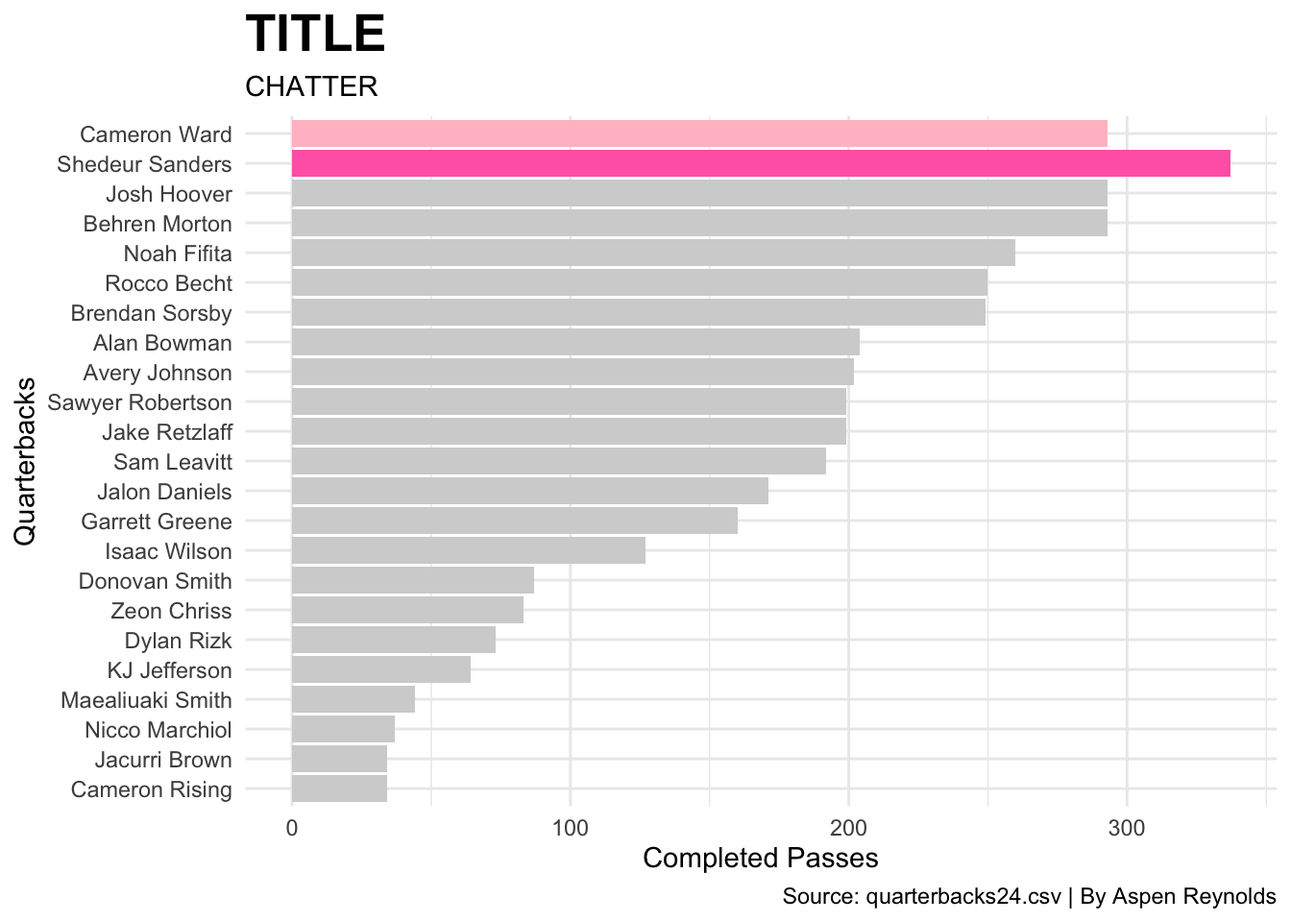
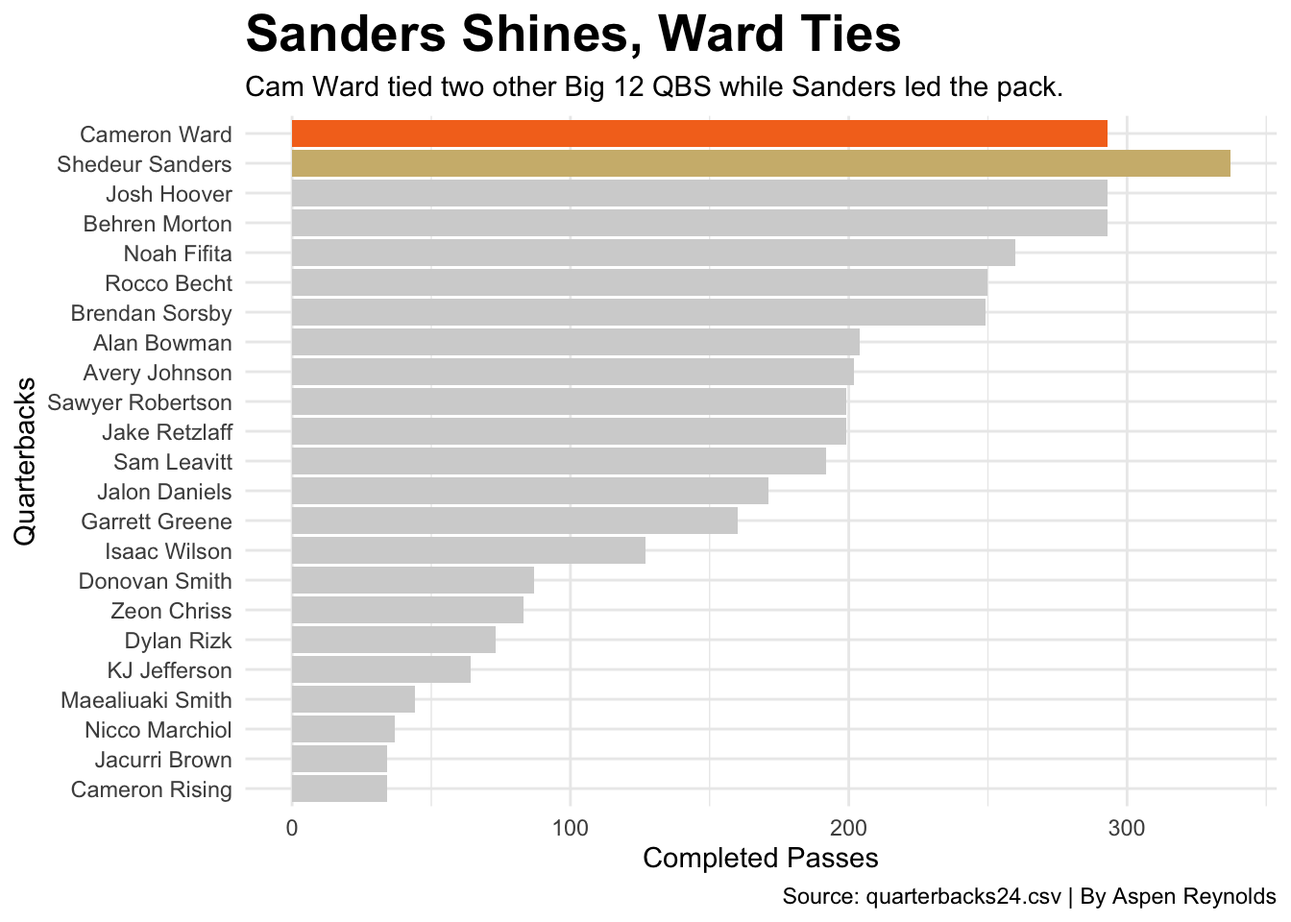
update

Changed region(s): [[0.1875, 0.0, 0.9688, 0.2188]]

diff --git a/posts/post2/post2.html b/posts/post2/post2.html
@@ -186,7 +186,7 @@ pre > code.sourceCode > span > a:first-child::before { text-decoration: underlin
 
 
 
-<p>Every draft season is full of surprises. From surprise picks to talented players being undrafted, you never can predict what will happen or what will go viral. This years hot topic was Shadeur Sanders. While a talented player in his own regard, he is frequently referred to as the son of NFL Hall of Famer Deion Sanders. The younger Sanders has been making headlines with his behavior in press conferences and meetings, as well as not training under anyone apart from his father. With high hopes to be a first round pick, they were quickly crushed. Sanders ultimately was the 144th pick in the fifth round, chosen by the Cleveland Browns. The overall top pick was Cameron Ward, a graduate from the University of Miami, who will be playing with the Tennessee Titans. This created more headlines. With both being quarterbacks, we are able to compare their passing statistics and see how Ward claimed the number one spot and how Sanders compared to him and the rest of the Big 12.</p>
+<p>Every draft season is full of surprises. From surprise picks to talented players being undrafted, you never can predict what will happen or what will go viral. This years hot topic was Shedeur Sanders. While a talented player in his own regard, he is frequently referred to as the son of NFL Hall of Famer Deion Sanders. The younger Sanders has been making headlines with his behavior in press conferences and meetings, as well as not training under anyone apart from his father. With high hopes to be a first round pick, they were quickly crushed. Sanders ultimately was the 144th pick in the fifth round, chosen by the Cleveland Browns. The overall top pick was Cameron Ward, a graduate from the University of Miami, who will be playing with the Tennessee Titans. This created more headlines. With both being quarterbacks, we are able to compare their passing statistics and see how Ward claimed the number one spot and how Sanders compared to him and the rest of the Big 12.</p>
 <div class="cell">
 <details class="code-fold">
 <summary>Code</summary>
@@ -194,8 +194,7 @@ pre > code.sourceCode > span > a:first-child::before { text-decoration: underlin
 <span id="cb1-2"><a href="#cb1-2" aria-hidden="true" tabindex="-1"></a><span class="fu">library</span>(ggrepel)</span>
 <span id="cb1-3"><a href="#cb1-3" aria-hidden="true" tabindex="-1"></a><span class="fu">library</span>(ggalt)</span>
 <span id="cb1-4"><a href="#cb1-4" aria-hidden="true" tabindex="-1"></a><span class="fu">library</span>(ggtext)</span>
-<span id="cb1-5"><a href="#cb1-5" aria-hidden="true" tabindex="-1"></a><span class="fu">library</span>(waffle)</span>
-<span id="cb1-6"><a href="#cb1-6" aria-hidden="true" tabindex="-1"></a><span class="fu">library</span>(patchwork)</span></code><button title="Copy to Clipboard" class="code-copy-button"><i class="bi"></i></button></pre></div>
+<span id="cb1-5"><a href="#cb1-5" aria-hidden="true" tabindex="-1"></a><span class="fu">library</span>(patchwork)</span></code><button title="Copy to Clipboard" class="code-copy-button"><i class="bi"></i></button></pre></div>
 </details>
 </div>
 <div class="cell">
@@ -231,19 +230,20 @@ pre > code.sourceCode > span > a:first-child::before { text-decoration: underlin
 <summary>Code</summary>
 <div class="sourceCode cell-code" id="cb6"><pre class="sourceCode r code-with-copy"><code class="sourceCode r"><span id="cb6-1"><a href="#cb6-1" aria-hidden="true" tabindex="-1"></a><span class="fu">ggplot</span>() <span class="sc">+</span> </span>
 <span id="cb6-2"><a href="#cb6-2" aria-hidden="true" tabindex="-1"></a>  <span class="fu">geom_bar</span>(<span class="at">data=</span>big12, <span class="fu">aes</span>(<span class="at">x=</span><span class="fu">reorder</span>(player, passing_completions), <span class="at">weight=</span>passing_completions), <span class="at">fill=</span><span class="st">"lightgrey"</span>) <span class="sc">+</span></span>
-<span id="cb6-3"><a href="#cb6-3" aria-hidden="true" tabindex="-1"></a>  <span class="fu">geom_bar</span>(<span class="at">data=</span>cw, <span class="fu">aes</span>(<span class="at">x=</span><span class="fu">reorder</span>(player, passing_completions), <span class="at">weight=</span>passing_completions), <span class="at">fill=</span><span class="st">"pink"</span>) <span class="sc">+</span> <span class="fu">geom_bar</span>(<span class="at">data=</span>ss, <span class="fu">aes</span>(<span class="at">x=</span><span class="fu">reorder</span>(player, passing_completions), <span class="at">weight=</span>passing_completions), <span class="at">fill=</span><span class="st">"hotpink"</span>) <span class="sc">+</span> </span>
-<span id="cb6-4"><a href="#cb6-4" aria-hidden="true" tabindex="-1"></a>  <span class="fu">coord_flip</span>() <span class="sc">+</span></span>
-<span id="cb6-5"><a href="#cb6-5" aria-hidden="true" tabindex="-1"></a>  <span class="fu">labs</span>(</span>
-<span id="cb6-6"><a href="#cb6-6" aria-hidden="true" tabindex="-1"></a>    <span class="at">x=</span><span class="st">"Quarterbacks"</span>, </span>
-<span id="cb6-7"><a href="#cb6-7" aria-hidden="true" tabindex="-1"></a>    <span class="at">y=</span><span class="st">"Completed Passes"</span>, </span>
-<span id="cb6-8"><a href="#cb6-8" aria-hidden="true" tabindex="-1"></a>    <span class="at">title=</span><span class="st">"TITLE"</span>, </span>
-<span id="cb6-9"><a href="#cb6-9" aria-hidden="true" tabindex="-1"></a>    <span class="at">subtitle=</span><span class="st">"CHATTER"</span>, </span>
-<span id="cb6-10"><a href="#cb6-10" aria-hidden="true" tabindex="-1"></a>    <span class="at">caption=</span><span class="st">"Source: quarterbacks24.csv | By Aspen Reynolds"</span></span>
-<span id="cb6-11"><a href="#cb6-11" aria-hidden="true" tabindex="-1"></a>    ) <span class="sc">+</span></span>
-<span id="cb6-12"><a href="#cb6-12" aria-hidden="true" tabindex="-1"></a>  <span class="fu">theme_minimal</span>() <span class="sc">+</span> </span>
-<span id="cb6-13"><a href="#cb6-13" aria-hidden="true" tabindex="-1"></a>  <span class="fu">theme</span>(</span>
-<span id="cb6-14"><a href="#cb6-14" aria-hidden="true" tabindex="-1"></a>    <span class="at">plot.title =</span> <span class="fu">element_text</span>(<span class="at">size =</span> <span class="dv">20</span>, <span class="at">face =</span> <span class="st">"bold"</span>)</span>
-<span id="cb6-15"><a href="#cb6-15" aria-hidden="true" tabindex="-1"></a>    )</span></code><button title="Copy to Clipboard" class="code-copy-button"><i class="bi"></i></button></pre></div>
+<span id="cb6-3"><a href="#cb6-3" aria-hidden="true" tabindex="-1"></a>  <span class="fu">geom_bar</span>(<span class="at">data=</span>cw, <span class="fu">aes</span>(<span class="at">x=</span><span class="fu">reorder</span>(player, passing_completions), <span class="at">weight=</span>passing_completions), <span class="at">fill=</span><span class="st">"#F47321"</span>) <span class="sc">+</span> </span>
+<span id="cb6-4"><a href="#cb6-4" aria-hidden="true" tabindex="-1"></a>  <span class="fu">geom_bar</span>(<span class="at">data=</span>ss, <span class="fu">aes</span>(<span class="at">x=</span><span class="fu">reorder</span>(player, passing_completions), <span class="at">weight=</span>passing_completions), <span class="at">fill=</span><span class="st">"#CFB87C"</span>) <span class="sc">+</span> </span>
+<span id="cb6-5"><a href="#cb6-5" aria-hidden="true" tabindex="-1"></a>  <span class="fu">coord_flip</span>() <span class="sc">+</span></span>
+<span id="cb6-6"><a href="#cb6-6" aria-hidden="true" tabindex="-1"></a>  <span class="fu">labs</span>(</span>
+<span id="cb6-7"><a href="#cb6-7" aria-hidden="true" tabindex="-1"></a>    <span class="at">x=</span><span class="st">"Quarterbacks"</span>, </span>
+<span id="cb6-8"><a href="#cb6-8" aria-hidden="true" tabindex="-1"></a>    <span class="at">y=</span><span class="st">"Completed Passes"</span>, </span>
+<span id="cb6-9"><a href="#cb6-9" aria-hidden="true" tabindex="-1"></a>    <span class="at">title=</span><span class="st">"Sanders Shines, Ward Ties"</span>, </span>
+<span id="cb6-10"><a href="#cb6-10" aria-hidden="true" tabindex="-1"></a>    <span class="at">subtitle=</span><span class="st">"Cam Ward tied two other Big 12 QBS while Sanders led the pack."</span>, </span>
+<span id="cb6-11"><a href="#cb6-11" aria-hidden="true" tabindex="-1"></a>    <span class="at">caption=</span><span class="st">"Source: quarterbacks24.csv | By Aspen Reynolds"</span></span>
+<span id="cb6-12"><a href="#cb6-12" aria-hidden="true" tabindex="-1"></a>    ) <span class="sc">+</span></span>
+<span id="cb6-13"><a href="#cb6-13" aria-hidden="true" tabindex="-1"></a>  <span class="fu">theme_minimal</span>() <span class="sc">+</span> </span>
+<span id="cb6-14"><a href="#cb6-14" aria-hidden="true" tabindex="-1"></a>  <span class="fu">theme</span>(</span>
+<span id="cb6-15"><a href="#cb6-15" aria-hidden="true" tabindex="-1"></a>    <span class="at">plot.title =</span> <span class="fu">element_text</span>(<span class="at">size =</span> <span class="dv">20</span>, <span class="at">face =</span> <span class="st">"bold"</span>)</span>
+<span id="cb6-16"><a href="#cb6-16" aria-hidden="true" tabindex="-1"></a>    )</span></code><button title="Copy to Clipboard" class="code-copy-button"><i class="bi"></i></button></pre></div>
 </details>
 <div class="cell-output-display">
 <div>
@@ -253,26 +253,27 @@ pre > code.sourceCode > span > a:first-child::before { text-decoration: underlin
 </div>
 </div>
 </div>
-<p>Shadeur Sanders had more pass completions than both Ward and the Big 12. Sanders had 337, while Ward had 293. TCU’s Josh Hoover and Texas Tech’s Behren Morton also tied with Ward with 293 completed passes.</p>
+<p>Shedeur Sanders had more pass completions than both Ward and the Big 12. Sanders had 337, while Ward had 293. TCU’s Josh Hoover and Texas Tech’s Behren Morton also tied with Ward with 293 completed passes.</p>
 <p>This is reflected in overall passing as well. Sanders currently holds the record for highest career passing percentage in college football (71.4%). His 2024 season percentage was 74.2, with Ward once again being his closest competitor with 67.4%.</p>
 <div class="cell">
 <details class="code-fold">
 <summary>Code</summary>
 <div class="sourceCode cell-code" id="cb7"><pre class="sourceCode r code-with-copy"><code class="sourceCode r"><span id="cb7-1"><a href="#cb7-1" aria-hidden="true" tabindex="-1"></a><span class="fu">ggplot</span>() <span class="sc">+</span> </span>
 <span id="cb7-2"><a href="#cb7-2" aria-hidden="true" tabindex="-1"></a>  <span class="fu">geom_bar</span>(<span class="at">data=</span>big12, <span class="fu">aes</span>(<span class="at">x=</span><span class="fu">reorder</span>(player, passing_pct), <span class="at">weight=</span>passing_pct), <span class="at">fill=</span><span class="st">"lightgrey"</span>) <span class="sc">+</span></span>
-<span id="cb7-3"><a href="#cb7-3" aria-hidden="true" tabindex="-1"></a>  <span class="fu">geom_bar</span>(<span class="at">data=</span>cw, <span class="fu">aes</span>(<span class="at">x=</span><span class="fu">reorder</span>(player, passing_pct), <span class="at">weight=</span>passing_pct), <span class="at">fill=</span><span class="st">"pink"</span>) <span class="sc">+</span> <span class="fu">geom_bar</span>(<span class="at">data=</span>ss, <span class="fu">aes</span>(<span class="at">x=</span><span class="fu">reorder</span>(player, passing_pct), <span class="at">weight=</span>passing_pct), <span class="at">fill=</span><span class="st">"hotpink"</span>) <span class="sc">+</span> </span>
-<span id="cb7-4"><a href="#cb7-4" aria-hidden="true" tabindex="-1"></a>  <span class="fu">coord_flip</span>() <span class="sc">+</span></span>
-<span id="cb7-5"><a href="#cb7-5" aria-hidden="true" tabindex="-1"></a>  <span class="fu">labs</span>(</span>
-<span id="cb7-6"><a href="#cb7-6" aria-hidden="true" tabindex="-1"></a>    <span class="at">x=</span><span class="st">"Quarterbacks"</span>, </span>
-<span id="cb7-7"><a href="#cb7-7" aria-hidden="true" tabindex="-1"></a>    <span class="at">y=</span><span class="st">"Passing Completion Percentage"</span>, </span>
-<span id="cb7-8"><a href="#cb7-8" aria-hidden="true" tabindex="-1"></a>    <span class="at">title=</span><span class="st">"TITLE"</span>, </span>
-<span id="cb7-9"><a href="#cb7-9" aria-hidden="true" tabindex="-1"></a>    <span class="at">subtitle=</span><span class="st">"CHATTER"</span>, </span>
-<span id="cb7-10"><a href="#cb7-10" aria-hidden="true" tabindex="-1"></a>    <span class="at">caption=</span><span class="st">"Source: quarterbacks24.csv | By Aspen Reynolds"</span></span>
-<span id="cb7-11"><a href="#cb7-11" aria-hidden="true" tabindex="-1"></a>    ) <span class="sc">+</span></span>
-<span id="cb7-12"><a href="#cb7-12" aria-hidden="true" tabindex="-1"></a>  <span class="fu">theme_minimal</span>() <span class="sc">+</span> </span>
-<span id="cb7-13"><a href="#cb7-13" aria-hidden="true" tabindex="-1"></a>  <span class="fu">theme</span>(</span>
-<span id="cb7-14"><a href="#cb7-14" aria-hidden="true" tabindex="-1"></a>    <span class="at">plot.title =</span> <span class="fu">element_text</span>(<span class="at">size =</span> <span class="dv">20</span>, <span class="at">face =</span> <span class="st">"bold"</span>)</span>
-<span id="cb7-15"><a href="#cb7-15" aria-hidden="true" tabindex="-1"></a>    )</span></code><button title="Copy to Clipboard" class="code-copy-button"><i class="bi"></i></button></pre></div>
+<span id="cb7-3"><a href="#cb7-3" aria-hidden="true" tabindex="-1"></a>  <span class="fu">geom_bar</span>(<span class="at">data=</span>cw, <span class="fu">aes</span>(<span class="at">x=</span><span class="fu">reorder</span>(player, passing_pct), <span class="at">weight=</span>passing_pct), <span class="at">fill=</span><span class="st">"#F47321"</span>) <span class="sc">+</span> </span>
+<span id="cb7-4"><a href="#cb7-4" aria-hidden="true" tabindex="-1"></a>  <span class="fu">geom_bar</span>(<span class="at">data=</span>ss, <span class="fu">aes</span>(<span class="at">x=</span><span class="fu">reorder</span>(player, passing_pct), <span class="at">weight=</span>passing_pct), <span class="at">fill=</span><span class="st">"#CFB87C"</span>) <span class="sc">+</span> </span>
+<span id="cb7-5"><a href="#cb7-5" aria-hidden="true" tabindex="-1"></a>  <span class="fu">coord_flip</span>() <span class="sc">+</span></span>
+<span id="cb7-6"><a href="#cb7-6" aria-hidden="true" tabindex="-1"></a>  <span class="fu">labs</span>(</span>
+<span id="cb7-7"><a href="#cb7-7" aria-hidden="true" tabindex="-1"></a>    <span class="at">x=</span><span class="st">"Quarterbacks"</span>, </span>
+<span id="cb7-8"><a href="#cb7-8" aria-hidden="true" tabindex="-1"></a>    <span class="at">y=</span><span class="st">"Passing Completion Percentage"</span>, </span>
+<span id="cb7-9"><a href="#cb7-9" aria-hidden="true" tabindex="-1"></a>    <span class="at">title=</span><span class="st">"Sanders smashes records"</span>, </span>
+<span id="cb7-10"><a href="#cb7-10" aria-hidden="true" tabindex="-1"></a>    <span class="at">subtitle=</span><span class="st">"With the highest passing percentage in both the 2024 season and his college career."</span>, </span>
+<span id="cb7-11"><a href="#cb7-11" aria-hidden="true" tabindex="-1"></a>    <span class="at">caption=</span><span class="st">"Source: quarterbacks24.csv | By Aspen Reynolds"</span></span>
+<span id="cb7-12"><a href="#cb7-12" aria-hidden="true" tabindex="-1"></a>    ) <span class="sc">+</span></span>
+<span id="cb7-13"><a href="#cb7-13" aria-hidden="true" tabindex="-1"></a>  <span class="fu">theme_minimal</span>() <span class="sc">+</span> </span>
+<span id="cb7-14"><a href="#cb7-14" aria-hidden="true" tabindex="-1"></a>  <span class="fu">theme</span>(</span>
+<span id="cb7-15"><a href="#cb7-15" aria-hidden="true" tabindex="-1"></a>    <span class="at">plot.title =</span> <span class="fu">element_text</span>(<span class="at">size =</span> <span class="dv">20</span>, <span class="at">face =</span> <span class="st">"bold"</span>)</span>
+<span id="cb7-16"><a href="#cb7-16" aria-hidden="true" tabindex="-1"></a>    )</span></code><button title="Copy to Clipboard" class="code-copy-button"><i class="bi"></i></button></pre></div>
 </details>
 <div class="cell-output-display">
 <div>
@@ -288,18 +289,18 @@ pre > code.sourceCode > span > a:first-child::before { text-decoration: underlin
 <summary>Code</summary>
 <div class="sourceCode cell-code" id="cb8"><pre class="sourceCode r code-with-copy"><code class="sourceCode r"><span id="cb8-1"><a href="#cb8-1" aria-hidden="true" tabindex="-1"></a><span class="fu">ggplot</span>() <span class="sc">+</span> </span>
 <span id="cb8-2"><a href="#cb8-2" aria-hidden="true" tabindex="-1"></a>  <span class="fu">geom_point</span>(<span class="at">data=</span>big12, <span class="fu">aes</span>(<span class="at">x=</span>passing_ypa, <span class="at">y=</span>player), <span class="at">fill=</span><span class="st">"lightgrey"</span>) <span class="sc">+</span></span>
-<span id="cb8-3"><a href="#cb8-3" aria-hidden="true" tabindex="-1"></a>  <span class="fu">geom_point</span>(<span class="at">data=</span>cw, <span class="fu">aes</span>(<span class="at">x=</span>passing_ypa, <span class="at">y=</span>player), <span class="at">fill=</span><span class="st">"pink"</span>) <span class="sc">+</span></span>
-<span id="cb8-4"><a href="#cb8-4" aria-hidden="true" tabindex="-1"></a>  <span class="fu">geom_point</span>(<span class="at">data=</span>ss, <span class="fu">aes</span>(<span class="at">x=</span>passing_ypa, <span class="at">y=</span>player), <span class="at">fill=</span><span class="st">"hotpink"</span>) <span class="sc">+</span></span>
+<span id="cb8-3"><a href="#cb8-3" aria-hidden="true" tabindex="-1"></a>  <span class="fu">geom_point</span>(<span class="at">data=</span>cw, <span class="fu">aes</span>(<span class="at">x=</span>passing_ypa, <span class="at">y=</span>player), <span class="at">fill=</span><span class="st">"#F47321"</span>) <span class="sc">+</span></span>
+<span id="cb8-4"><a href="#cb8-4" aria-hidden="true" tabindex="-1"></a>  <span class="fu">geom_point</span>(<span class="at">data=</span>ss, <span class="fu">aes</span>(<span class="at">x=</span>passing_ypa, <span class="at">y=</span>player), <span class="at">fill=</span><span class="st">"#CFB87C"</span>) <span class="sc">+</span></span>
 <span id="cb8-5"><a href="#cb8-5" aria-hidden="true" tabindex="-1"></a>  <span class="fu">labs</span>(</span>
 <span id="cb8-6"><a href="#cb8-6" aria-hidden="true" tabindex="-1"></a>    <span class="at">x=</span><span class="st">"Average yards gained per play"</span>, </span>
 <span id="cb8-7"><a href="#cb8-7" aria-hidden="true" tabindex="-1"></a>    <span class="at">y=</span><span class="st">"Quarterbacks"</span>, </span>
-<span id="cb8-8"><a href="#cb8-8" aria-hidden="true" tabindex="-1"></a>    <span class="at">title=</span><span class="st">"TITLE"</span>, </span>
-<span id="cb8-9"><a href="#cb8-9" aria-hidden="true" tabindex="-1"></a>    <span class="at">subtitle=</span><span class="st">"CHATTER"</span>, </span>
+<span id="cb8-8"><a href="#cb8-8" aria-hidden="true" tabindex="-1"></a>    <span class="at">title=</span><span class="st">"Ward wins against Sanders (and everyone else)"</span>, </span>
+<span id="cb8-9"><a href="#cb8-9" aria-hidden="true" tabindex="-1"></a>    <span class="at">subtitle=</span><span class="st">"Ward has a significantly higher average when it comes to average yards gained."</span>, </span>
 <span id="cb8-10"><a href="#cb8-10" aria-hidden="true" tabindex="-1"></a>    <span class="at">caption=</span><span class="st">"Source: quarterbacks24.csv | By Aspen Reynolds"</span></span>
 <span id="cb8-11"><a href="#cb8-11" aria-hidden="true" tabindex="-1"></a>    ) <span class="sc">+</span></span>
 <span id="cb8-12"><a href="#cb8-12" aria-hidden="true" tabindex="-1"></a>  <span class="fu">theme_minimal</span>() <span class="sc">+</span> </span>
 <span id="cb8-13"><a href="#cb8-13" aria-hidden="true" tabindex="-1"></a>  <span class="fu">theme</span>(</span>
-<span id="cb8-14"><a href="#cb8-14" aria-hidden="true" tabindex="-1"></a>    <span class="at">plot.title =</span> <span class="fu">element_text</span>(<span class="at">size =</span> <span class="dv">20</span>, <span class="at">face =</span> <span class="st">"bold"</span>)</span>
+<span id="cb8-14"><a href="#cb8-14" aria-hidden="true" tabindex="-1"></a>    <span class="at">plot.title =</span> <span class="fu">element_text</span>(<span class="at">size =</span> <span class="dv">18</span>, <span class="at">face =</span> <span class="st">"bold"</span>)</span>
 <span id="cb8-15"><a href="#cb8-15" aria-hidden="true" tabindex="-1"></a>    )</span></code><button title="Copy to Clipboard" class="code-copy-button"><i class="bi"></i></button></pre></div>
 </details>
 <div class="cell-output-display">
@@ -310,7 +311,8 @@ pre > code.sourceCode > span > a:first-child::before { text-decoration: underlin
 </div>
 </div>
 </div>
-<p>Here we see how Ward was an outlier among the Big 12 and compared to</p>
+<p>Here we see how Ward was an outlier among the Big 12 and compared to Sanders. Sanders gained 8.6 yards per play on average, while Ward averaged 9.5. Ward’s closest comparison was KJ Jefferson, quarterback at the University of Central Florida (UCF), who averaged 9.4.</p>
+<p>Finally, let’s look at how they compared in their respective leauges when it comes to throwing interceptions vs touchdowns.</p>
 <div class="cell">
 <details class="code-fold">
 <summary>Code</summary>
@@ -325,7 +327,7 @@ pre > code.sourceCode > span > a:first-child::before { text-decoration: underlin
 <div class="cell">
 <details class="code-fold">
 <summary>Code</summary>
-<div class="sourceCode cell-code" id="cb10"><pre class="sourceCode r code-with-copy"><code class="sourceCode r"><span id="cb10-1"><a href="#cb10-1" aria-hidden="true" tabindex="-1"></a><span class="fu">ggplot</span>() <span class="sc">+</span> </span>
+<div class="sourceCode cell-code" id="cb10"><pre class="sourceCode r code-with-copy"><code class="sourceCode r"><span id="cb10-1"><a href="#cb10-1" aria-hidden="true" tabindex="-1"></a>db1 <span class="ot">&lt;-</span> <span class="fu">ggplot</span>() <span class="sc">+</span> </span>
 <span id="cb10-2"><a href="#cb10-2" aria-hidden="true" tabindex="-1"></a>  <span class="fu">geom_dumbbell</span>(</span>
 <span id="cb10-3"><a href="#cb10-3" aria-hidden="true" tabindex="-1"></a>    <span class="at">data=</span>ssturnovers,</span>
 <span id="cb10-4"><a href="#cb10-4" aria-hidden="true" tabindex="-1"></a>    <span class="fu">aes</span>(<span class="at">y=</span>player, <span class="at">x=</span>Takeaways, <span class="at">xend=</span>Giveaways),</span>
@@ -334,16 +336,57 @@ pre > code.sourceCode > span > a:first-child::before { text-decoration: underlin
 <span id="cb10-7"><a href="#cb10-7" aria-hidden="true" tabindex="-1"></a>    <span class="at">colour_x =</span> <span class="st">"lightgreen"</span>,</span>
 <span id="cb10-8"><a href="#cb10-8" aria-hidden="true" tabindex="-1"></a>    <span class="at">colour_xend =</span> <span class="st">"lightpink"</span>) <span class="sc">+</span></span>
 <span id="cb10-9"><a href="#cb10-9" aria-hidden="true" tabindex="-1"></a>  <span class="fu">labs</span>(</span>
-<span id="cb10-10"><a href="#cb10-10" aria-hidden="true" tabindex="-1"></a>    <span class="at">x=</span><span class="st">"Takeaways"</span>, </span>
+<span id="cb10-10"><a href="#cb10-10" aria-hidden="true" tabindex="-1"></a>    <span class="at">x=</span><span class="st">"Interceptions vs. Touchdowns"</span>, </span>
 <span id="cb10-11"><a href="#cb10-11" aria-hidden="true" tabindex="-1"></a>    <span class="at">y=</span><span class="st">"Quarterbacks"</span>, </span>
-<span id="cb10-12"><a href="#cb10-12" aria-hidden="true" tabindex="-1"></a>    <span class="at">title=</span><span class="st">"TITLE"</span>, </span>
-<span id="cb10-13"><a href="#cb10-13" aria-hidden="true" tabindex="-1"></a>    <span class="at">subtitle=</span><span class="st">"CHATTER"</span>, </span>
+<span id="cb10-12"><a href="#cb10-12" aria-hidden="true" tabindex="-1"></a>    <span class="at">title=</span><span class="st">"Sanders dominated the Big 12..."</span>, </span>
+<span id="cb10-13"><a href="#cb10-13" aria-hidden="true" tabindex="-1"></a>    <span class="at">subtitle=</span><span class="st">"If green is on the right, the quarterbacks threw more touchdowns than interceptions. If pink is on the right, that's bad."</span>, </span>
 <span id="cb10-14"><a href="#cb10-14" aria-hidden="true" tabindex="-1"></a>    <span class="at">caption=</span><span class="st">"Source: quarterbacks24.csv | By Aspen Reynolds"</span></span>
 <span id="cb10-15"><a href="#cb10-15" aria-hidden="true" tabindex="-1"></a>    ) <span class="sc">+</span></span>
 <span id="cb10-16"><a href="#cb10-16" aria-hidden="true" tabindex="-1"></a>  <span class="fu">theme_minimal</span>() <span class="sc">+</span> </span>
 <span id="cb10-17"><a href="#cb10-17" aria-hidden="true" tabindex="-1"></a>  <span class="fu">theme</span>(</span>
 <span id="cb10-18"><a href="#cb10-18" aria-hidden="true" tabindex="-1"></a>    <span class="at">plot.title =</span> <span class="fu">element_text</span>(<span class="at">size =</span> <span class="dv">20</span>, <span class="at">face =</span> <span class="st">"bold"</span>)</span>
 <span id="cb10-19"><a href="#cb10-19" aria-hidden="true" tabindex="-1"></a>    )</span></code><button title="Copy to Clipboard" class="code-copy-button"><i class="bi"></i></button></pre></div>
+</details>
+</div>
+<div class="cell">
+<details class="code-fold">
+<summary>Code</summary>
+<div class="sourceCode cell-code" id="cb11"><pre class="sourceCode r code-with-copy"><code class="sourceCode r"><span id="cb11-1"><a href="#cb11-1" aria-hidden="true" tabindex="-1"></a>cwturnovers <span class="ot">&lt;-</span> qbs <span class="sc">|&gt;</span></span>
+<span id="cb11-2"><a href="#cb11-2" aria-hidden="true" tabindex="-1"></a>  <span class="fu">group_by</span>(player, conference) <span class="sc">|&gt;</span> </span>
+<span id="cb11-3"><a href="#cb11-3" aria-hidden="true" tabindex="-1"></a>  <span class="fu">summarise</span>(</span>
+<span id="cb11-4"><a href="#cb11-4" aria-hidden="true" tabindex="-1"></a>    <span class="at">Giveaways =</span> passing_int, </span>
+<span id="cb11-5"><a href="#cb11-5" aria-hidden="true" tabindex="-1"></a>    <span class="at">Takeaways =</span> passing_td) <span class="sc">|&gt;</span></span>
+<span id="cb11-6"><a href="#cb11-6" aria-hidden="true" tabindex="-1"></a>  <span class="fu">filter</span>(conference <span class="sc">==</span> <span class="st">"ACC"</span>)</span></code><button title="Copy to Clipboard" class="code-copy-button"><i class="bi"></i></button></pre></div>
+</details>
+</div>
+<div class="cell">
+<details class="code-fold">
+<summary>Code</summary>
+<div class="sourceCode cell-code" id="cb12"><pre class="sourceCode r code-with-copy"><code class="sourceCode r"><span id="cb12-1"><a href="#cb12-1" aria-hidden="true" tabindex="-1"></a>db2 <span class="ot">&lt;-</span> <span class="fu">ggplot</span>() <span class="sc">+</span> </span>
+<span id="cb12-2"><a href="#cb12-2" aria-hidden="true" tabindex="-1"></a>  <span class="fu">geom_dumbbell</span>(</span>
+<span id="cb12-3"><a href="#cb12-3" aria-hidden="true" tabindex="-1"></a>    <span class="at">data=</span>cwturnovers,</span>
+<span id="cb12-4"><a href="#cb12-4" aria-hidden="true" tabindex="-1"></a>    <span class="fu">aes</span>(<span class="at">y=</span>player, <span class="at">x=</span>Takeaways, <span class="at">xend=</span>Giveaways),</span>
+<span id="cb12-5"><a href="#cb12-5" aria-hidden="true" tabindex="-1"></a>    <span class="at">size =</span> <span class="dv">2</span>,</span>
+<span id="cb12-6"><a href="#cb12-6" aria-hidden="true" tabindex="-1"></a>    <span class="at">colour =</span> <span class="st">"grey"</span>,</span>
+<span id="cb12-7"><a href="#cb12-7" aria-hidden="true" tabindex="-1"></a>    <span class="at">colour_x =</span> <span class="st">"lightgreen"</span>,</span>
+<span id="cb12-8"><a href="#cb12-8" aria-hidden="true" tabindex="-1"></a>    <span class="at">colour_xend =</span> <span class="st">"lightpink"</span>) <span class="sc">+</span></span>
+<span id="cb12-9"><a href="#cb12-9" aria-hidden="true" tabindex="-1"></a>  <span class="fu">labs</span>(</span>
+<span id="cb12-10"><a href="#cb12-10" aria-hidden="true" tabindex="-1"></a>    <span class="at">x=</span><span class="st">"Interceptions vs. Touchdowns"</span>, </span>
+<span id="cb12-11"><a href="#cb12-11" aria-hidden="true" tabindex="-1"></a>    <span class="at">y=</span><span class="st">"Quarterbacks"</span>, </span>
+<span id="cb12-12"><a href="#cb12-12" aria-hidden="true" tabindex="-1"></a>    <span class="at">title=</span><span class="st">"While Ward dominated the ACC"</span>, </span>
+<span id="cb12-13"><a href="#cb12-13" aria-hidden="true" tabindex="-1"></a>    <span class="at">subtitle=</span><span class="st">"Ward led the ACC, though he had closer competition."</span>, </span>
+<span id="cb12-14"><a href="#cb12-14" aria-hidden="true" tabindex="-1"></a>    <span class="at">caption=</span><span class="st">"Source: quarterbacks24.csv | By Aspen Reynolds"</span></span>
+<span id="cb12-15"><a href="#cb12-15" aria-hidden="true" tabindex="-1"></a>    ) <span class="sc">+</span></span>
+<span id="cb12-16"><a href="#cb12-16" aria-hidden="true" tabindex="-1"></a>  <span class="fu">theme_minimal</span>() <span class="sc">+</span> </span>
+<span id="cb12-17"><a href="#cb12-17" aria-hidden="true" tabindex="-1"></a>  <span class="fu">theme</span>(</span>
+<span id="cb12-18"><a href="#cb12-18" aria-hidden="true" tabindex="-1"></a>    <span class="at">plot.title =</span> <span class="fu">element_text</span>(<span class="at">size =</span> <span class="dv">20</span>, <span class="at">face =</span> <span class="st">"bold"</span>)</span>
+<span id="cb12-19"><a href="#cb12-19" aria-hidden="true" tabindex="-1"></a>    )</span></code><button title="Copy to Clipboard" class="code-copy-button"><i class="bi"></i></button></pre></div>
+</details>
+</div>
+<div class="cell">
+<details class="code-fold">
+<summary>Code</summary>
+<div class="sourceCode cell-code" id="cb13"><pre class="sourceCode r code-with-copy"><code class="sourceCode r"><span id="cb13-1"><a href="#cb13-1" aria-hidden="true" tabindex="-1"></a>db1 <span class="sc">/</span> db2</span></code><button title="Copy to Clipboard" class="code-copy-button"><i class="bi"></i></button></pre></div>
 </details>
 <div class="cell-output cell-output-stderr">
 <pre><code>Warning: Using the `size` aesthetic with geom_segment was deprecated in ggplot2 3.4.0.
@@ -352,55 +395,14 @@ pre > code.sourceCode > span > a:first-child::before { text-decoration: underlin
 <div class="cell-output-display">
 <div>
 <figure class="figure">
-<p><img src="post2_files/figure-html/unnamed-chunk-11-1.png" class="img-fluid figure-img" width="672"></p>
+<p><img src="post2_files/figure-html/unnamed-chunk-14-1.png" class="img-fluid figure-img" width="960"></p>
 </figure>
 </div>
 </div>
 </div>
-<div class="cell">
-<details class="code-fold">
-<summary>Code</summary>
-<div class="sourceCode cell-code" id="cb12"><pre class="sourceCode r code-with-copy"><code class="sourceCode r"><span id="cb12-1"><a href="#cb12-1" aria-hidden="true" tabindex="-1"></a>cwturnovers <span class="ot">&lt;-</span> qbs <span class="sc">|&gt;</span></span>
-<span id="cb12-2"><a href="#cb12-2" aria-hidden="true" tabindex="-1"></a>  <span class="fu">group_by</span>(player, conference) <span class="sc">|&gt;</span> </span>
-<span id="cb12-3"><a href="#cb12-3" aria-hidden="true" tabindex="-1"></a>  <span class="fu">summarise</span>(</span>
-<span id="cb12-4"><a href="#cb12-4" aria-hidden="true" tabindex="-1"></a>    <span class="at">Giveaways =</span> passing_int, </span>
-<span id="cb12-5"><a href="#cb12-5" aria-hidden="true" tabindex="-1"></a>    <span class="at">Takeaways =</span> passing_td) <span class="sc">|&gt;</span></span>
-<span id="cb12-6"><a href="#cb12-6" aria-hidden="true" tabindex="-1"></a>  <span class="fu">filter</span>(conference <span class="sc">==</span> <span class="st">"ACC"</span>)</span></code><button title="Copy to Clipboard" class="code-copy-button"><i class="bi"></i></button></pre></div>
-</details>
-</div>
-<div class="cell">
-<details class="code-fold">
-<summary>Code</summary>
-<div class="sourceCode cell-code" id="cb13"><pre class="sourceCode r code-with-copy"><code class="sourceCode r"><span id="cb13-1"><a href="#cb13-1" aria-hidden="true" tabindex="-1"></a><span class="fu">ggplot</span>() <span class="sc">+</span> </span>
-<span id="cb13-2"><a href="#cb13-2" aria-hidden="true" tabindex="-1"></a>  <span class="fu">geom_dumbbell</span>(</span>
-<span id="cb13-3"><a href="#cb13-3" aria-hidden="true" tabindex="-1"></a>    <span class="at">data=</span>cwturnovers,</span>
-<span id="cb13-4"><a href="#cb13-4" aria-hidden="true" tabindex="-1"></a>    <span class="fu">aes</span>(<span class="at">y=</span>player, <span class="at">x=</span>Takeaways, <span class="at">xend=</span>Giveaways),</span>
-<span id="cb13-5"><a href="#cb13-5" aria-hidden="true" tabindex="-1"></a>    <span class="at">size =</span> <span class="dv">2</span>,</span>
-<span id="cb13-6"><a href="#cb13-6" aria-hidden="true" tabindex="-1"></a>    <span class="at">colour =</span> <span class="st">"grey"</span>,</span>
-<span id="cb13-7"><a href="#cb13-7" aria-hidden="true" tabindex="-1"></a>    <span class="at">colour_x =</span> <span class="st">"lightgreen"</span>,</span>
-<span id="cb13-8"><a href="#cb13-8" aria-hidden="true" tabindex="-1"></a>    <span class="at">colour_xend =</span> <span class="st">"lightpink"</span>) <span class="sc">+</span></span>
-<span id="cb13-9"><a href="#cb13-9" aria-hidden="true" tabindex="-1"></a>  <span class="fu">labs</span>(</span>
-<span id="cb13-10"><a href="#cb13-10" aria-hidden="true" tabindex="-1"></a>    <span class="at">x=</span><span class="st">"Takeaways"</span>, </span>
-<span id="cb13-11"><a href="#cb13-11" aria-hidden="true" tabindex="-1"></a>    <span class="at">y=</span><span class="st">"Quarterbacks"</span>, </span>
-<span id="cb13-12"><a href="#cb13-12" aria-hidden="true" tabindex="-1"></a>    <span class="at">title=</span><span class="st">"TITLE"</span>, </span>
-<span id="cb13-13"><a href="#cb13-13" aria-hidden="true" tabindex="-1"></a>    <span class="at">subtitle=</span><span class="st">"CHATTER"</span>, </span>
-<span id="cb13-14"><a href="#cb13-14" aria-hidden="true" tabindex="-1"></a>    <span class="at">caption=</span><span class="st">"Source: quarterbacks24.csv | By Aspen Reynolds"</span></span>
-<span id="cb13-15"><a href="#cb13-15" aria-hidden="true" tabindex="-1"></a>    ) <span class="sc">+</span></span>
-<span id="cb13-16"><a href="#cb13-16" aria-hidden="true" tabindex="-1"></a>  <span class="fu">theme_minimal</span>() <span class="sc">+</span> </span>
-<span id="cb13-17"><a href="#cb13-17" aria-hidden="true" tabindex="-1"></a>  <span class="fu">theme</span>(</span>
-<span id="cb13-18"><a href="#cb13-18" aria-hidden="true" tabindex="-1"></a>    <span class="at">plot.title =</span> <span class="fu">element_text</span>(<span class="at">size =</span> <span class="dv">20</span>, <span class="at">face =</span> <span class="st">"bold"</span>)</span>
-<span id="cb13-19"><a href="#cb13-19" aria-hidden="true" tabindex="-1"></a>    )</span></code><button title="Copy to Clipboard" class="code-copy-button"><i class="bi"></i></button></pre></div>
-</details>
-<div class="cell-output-display">
-<div>
-<figure class="figure">
-<p><img src="post2_files/figure-html/unnamed-chunk-13-1.png" class="img-fluid figure-img" width="672"></p>
-</figure>
-</div>
-</div>
-</div>
-<p>We are able to see that Sanders once again stands out against the rest of the Big 12.</p>
-<p>Overall, when it comes to passing, Sanders is a stellar player. Statistically you are able to see why so many people, including himself, thought that he would be the number one overall pick. Unfortunately for him, there are other factors besides being a good athlete.</p>
+<p>We are able to see that Sanders once again stands out against the rest of the Big 12. He threw 35 touchdowns compared to 8 interceptions throughout the season. He had the most touchdowns thrown in the Big 12.</p>
+<p>Comparing Cameron Ward to his own division, the ACC, the competition was a little closer. Ward still had the largest gap with 36 touchdowns and seven interceptions. Those numbers also show he performed slightly better than Sanders.</p>
+<p>Overall, when it comes to passing, Sanders is a stellar player. Statistically you are able to see why so many people, including himself, thought that he would be the number one overall pick, or at least be selected in the first round. Unfortunately for him, there are other factors besides being a good athlete. Cameron Ward was a standout candidate who was also deserving of the number one spot. Ward has proven to be a top quarterback, and his professional career will be one to watch.</p>
 
 
 

diff --git a/index.html b/index.html
@@ -200,7 +200,7 @@ window.Quarto = {
 
 <div class="quarto-listing quarto-listing-container-default" id="listing-listing">
 <div class="list quarto-listing-default">
-<div class="quarto-post image-right" data-index="0" data-categories="Zm9vdGJhbGwlMkNtaWFtaSUyQ2NvbG9yYWRvJTJDbmZsZHJhZnQ=" data-listing-date-sort="1745989200000" data-listing-file-modified-sort="1746142729740" data-listing-date-modified-sort="NaN" data-listing-reading-time-sort="5" data-listing-word-count-sort="914">
+<div class="quarto-post image-right" data-index="0" data-categories="Zm9vdGJhbGwlMkNtaWFtaSUyQ2NvbG9yYWRvJTJDbmZsZHJhZnQ=" data-listing-date-sort="1745989200000" data-listing-file-modified-sort="1746414199429" data-listing-date-modified-sort="NaN" data-listing-reading-time-sort="6" data-listing-word-count-sort="1172">
 <div class="thumbnail">
 <p><a href="./posts/post2/post2.html" class="no-external"></a></p><a href="./posts/post2/post2.html" class="no-external">
 <p><img loading="lazy" src="./posts/post2/image.png" class="thumbnail-image"></p>
